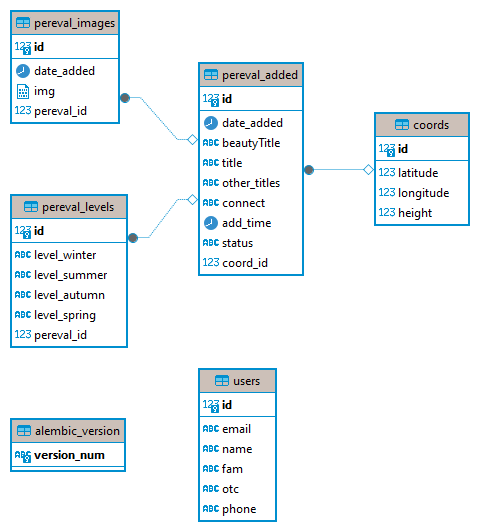
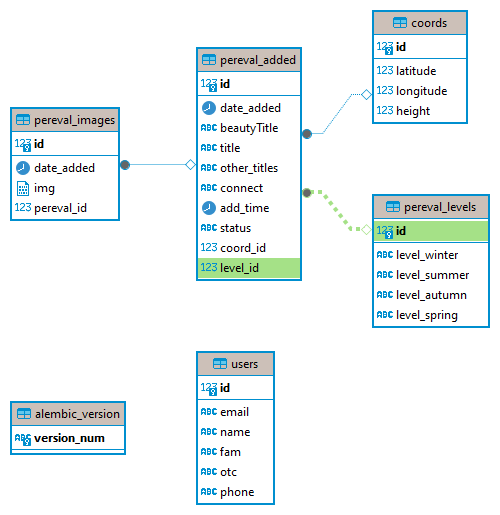
коммÐкуафсÐrefactoring_PerevalLevels_and_PerevalAdded

diff --git a/src/models/pereval.py b/src/models/pereval.py
@@ -16,6 +16,15 @@ class Coords(Base):
     longitude = Column(Float)
     height = Column(Integer)
 
+# Модель сложности
+
+class PerevalLevels(Base):
+    __tablename__ = "pereval_levels"
+    id = Column(Integer, primary_key=True)
+    level_winter = Column(Text)
+    level_summer = Column(Text)
+    level_autumn = Column(Text)
+    level_spring = Column(Text)
 
 # Модель для перевалов
 class PerevalAdded(Base):
@@ -33,8 +42,9 @@ class PerevalAdded(Base):
     coord_id = Column(Integer, ForeignKey("coords.id"))
     coord = relationship("Coords")
 
-    # Уровень сложности в разные сезоны
-    level = relationship("PerevalLevels", back_populates="pereval", cascade="all, delete, delete-orphan")
+    # Связь с таблицей уровень сложности в разные сезоны
+    level_id = Column(Integer, ForeignKey("pereval_levels.id"))
+    level = relationship("PerevalLevels")
     # Связь с изображениями
     images = relationship("PerevalImages", back_populates="pereval", cascade="all, delete, delete-orphan")
 
@@ -48,14 +58,7 @@ class PerevalImages(Base):
     pereval_id = Column(Integer, ForeignKey("pereval_added.id"))
     pereval = relationship("PerevalAdded", back_populates="images")
 
-class PerevalLevels(Base):
-    __tablename__ = "pereval_levels"
-    id = Column(Integer, primary_key=True)
-    level_winter = Column(Text)
-    level_summer = Column(Text)
-    level_autumn = Column(Text)
-    level_spring = Column(Text)
-    pereval_id = Column(Integer, ForeignKey("pereval_added.id"))
-    pereval = relationship("PerevalAdded", back_populates="level")
+
+
 
 

diff --git a/alembic/versions/74c9c5e21ec8_изменены_связи_таблиц_perevallevel_and_.py b/alembic/versions/74c9c5e21ec8_изменены_связи_таблиц_perevallevel_and_.py
@@ -1,0 +1,36 @@
+"""Изменены связи таблиц PerevalLevel and PerevalAdded
+
+Revision ID: 74c9c5e21ec8
+Revises: 95042998aa7d
+Create Date: 2025-02-10 11:18:32.941752
+
+"""
+from typing import Sequence, Union
+
+from alembic import op
+import sqlalchemy as sa
+
+
+# revision identifiers, used by Alembic.
+revision: str = '74c9c5e21ec8'
+down_revision: Union[str, None] = '95042998aa7d'
+branch_labels: Union[str, Sequence[str], None] = None
+depends_on: Union[str, Sequence[str], None] = None
+
+
+def upgrade() -> None:
+    # ### commands auto generated by Alembic - please adjust! ###
+    op.add_column('pereval_added', sa.Column('level_id', sa.Integer(), nullable=True))
+    op.create_foreign_key(None, 'pereval_added', 'pereval_levels', ['level_id'], ['id'])
+    op.drop_constraint('pereval_levels_pereval_id_fkey', 'pereval_levels', type_='foreignkey')
+    op.drop_column('pereval_levels', 'pereval_id')
+    # ### end Alembic commands ###
+
+
+def downgrade() -> None:
+    # ### commands auto generated by Alembic - please adjust! ###
+    op.add_column('pereval_levels', sa.Column('pereval_id', sa.INTEGER(), autoincrement=False, nullable=True))
+    op.create_foreign_key('pereval_levels_pereval_id_fkey', 'pereval_levels', 'pereval_added', ['pereval_id'], ['id'])
+    op.drop_constraint(None, 'pereval_added', type_='foreignkey')
+    op.drop_column('pereval_added', 'level_id')
+    # ### end Alembic commands ###
